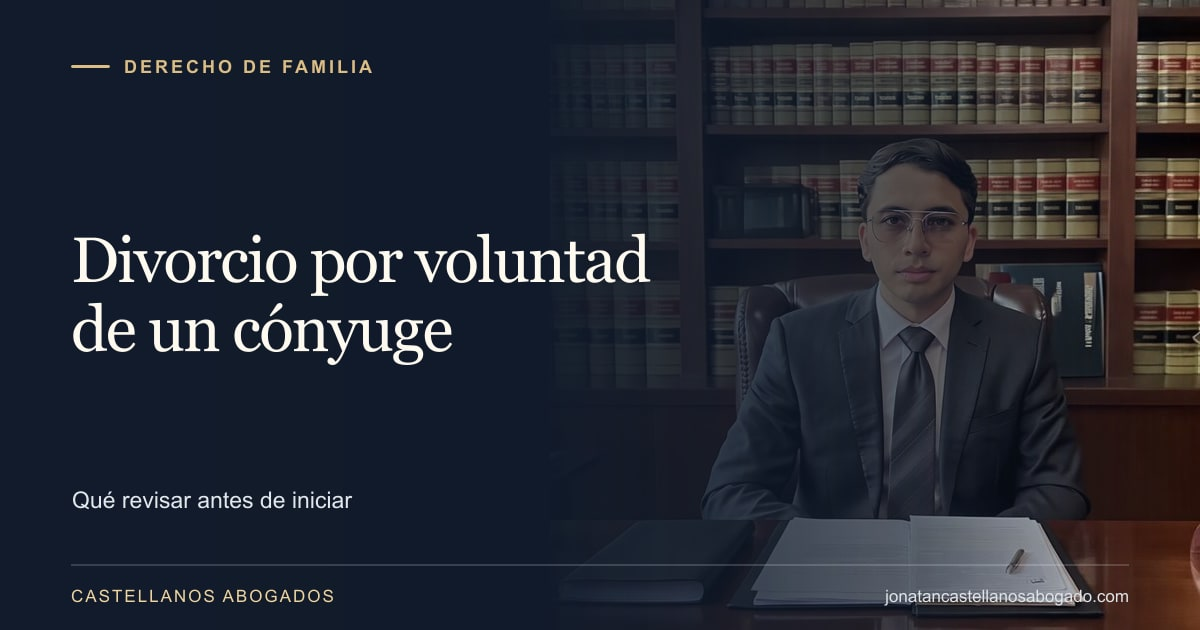
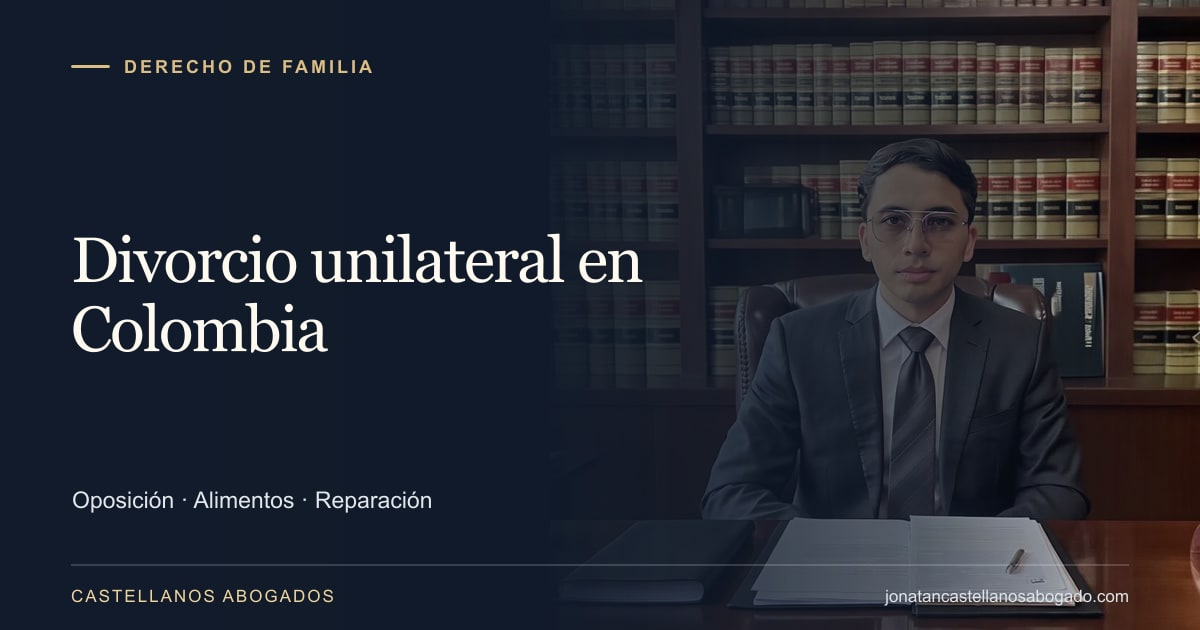
content: sustituye guías genéricas por análisis jurídico de PARD y divorcio

Changed region(s): [[0.0617, 0.3619, 0.555, 0.573], [0.0617, 0.7841, 0.37, 0.8143]]

diff --git a/app/blog/[slug]/page.tsx b/app/blog/[slug]/page.tsx
@@ -5,71 +5,76 @@ import WhatsAppContactCard from '@/app/components/WhatsAppContactCard';
 import { articleWhatsAppCtas } from '@/lib/whatsappCtaContent';
 
 const articles: Record<string, { title: string; category: string; date: string; updatedAt?: string; content: string; relatedLinks?: Array<{ label: string; url: string }>; image?: string; imageAlt?: string; sources?: Array<{ label: string; url: string }> }> = {
-  "preparar-primera-consulta-abogado": {
-    title: "Primera consulta con un abogado: documentos y preguntas para aprovecharla",
-    category: "Orientación jurídica",
+  "pard-colombia-separacion-familiar-defensa": {
+    title: "PARD en Colombia: separación familiar, defensa y límites de las medidas de protección",
+    category: "Familia",
     date: "2026-11-04T19:05:00-05:00",
-    relatedLinks: [{"label": "Solicitar una evaluación jurídica", "url": "/contacto"}, {"label": "Ingresar al portal del cliente", "url": "/cliente/login"}, {"label": "Explorar los servicios de la firma", "url": "/servicios"}],
+    sources: [{"label": "Ley 1098 de 2006: artículos 22, 26, 50, 98 y 101", "url": "https://www.funcionpublica.gov.co/eva/gestornormativo/norma.php?i=22106"}, {"label": "Ley 1878 de 2018: reformas de los artículos 52, 99, 100 y 103", "url": "https://apps.procuraduria.gov.co/guia/gd_1952/docs/l1878018.htm"}, {"label": "Ley 2126 de 2021, artículo 5: competencia", "url": "https://www.funcionpublica.gov.co/eva/gestornormativo/norma.php?i=168066"}, {"label": "Ley 1955 de 2019, artículo 208: seguimiento y ampliación excepcional", "url": "https://www.cancilleria.gov.co/normograma/compilacion/docs/ley_1955_2019.htm"}],
+    relatedLinks: [{"label": "Representación en derecho de familia", "url": "/servicios/familia"}],
     content: `
-Una consulta resulta más útil cuando permite entender qué ocurrió, qué documentos existen y qué decisión necesita tomar. No hace falta llegar con un expediente perfecto: sí conviene tener una explicación ordenada y señalar cualquier citación o fecha próxima.
+La apertura de un Proceso Administrativo de Restablecimiento de Derechos puede afectar con quién vive un niño y cómo mantiene sus vínculos familiares. El PARD busca restablecer sus derechos; sus decisiones deben respetar las garantías y los límites fijados en la legislación colombiana.
 
-**Escriba una cronología breve**
+**La separación familiar debe tener un fundamento concreto**
 
-Prepare una página con las fechas principales, las personas o entidades involucradas y los hechos que puede respaldar. Distinga lo que presenció de lo que otras personas le contaron. Si no recuerda una fecha, indíquelo; completar vacíos con suposiciones dificulta la revisión.
+El artículo 22 de la Ley 1098 de 2006 protege el derecho a tener una familia y a no ser separado de ella. La separación procede cuando la familia no garantiza las condiciones para el ejercicio de los derechos. La condición económica, por sí misma, no autoriza separar al niño.
 
-**Reúna documentos completos y legibles**
+Esto exige distinguir una vulneración de derechos de una carencia económica que requiere respuesta estatal. La protección del niño y la preservación de sus vínculos deben examinarse en las circunstancias acreditadas del caso.
 
-Según el asunto, pueden ser útiles contratos, citaciones, decisiones judiciales, comunicaciones de entidades, comprobantes o acuerdos. Conserve los originales y organice copias por fecha. Si comparte un correo, incluya sus anexos; si lleva una decisión, procure tener todas sus páginas.
+**Una medida de protección debe estar motivada**
 
-**Señale primero las fechas próximas**
+El artículo 101 exige al fallo examinar críticamente las pruebas, exponer sus fundamentos jurídicos y justificar la medida, su cumplimiento y su evaluación. El artículo 26 reconoce el debido proceso y el derecho del niño a ser escuchado y a que su opinión se tenga en cuenta.
 
-Si recibió una notificación o tiene una audiencia, muestre el documento e indique cuándo y por qué medio lo recibió. No calcule un plazo únicamente a partir de una publicación en internet. Pida al abogado que revise la actuación concreta antes de decidir qué hacer.
+**¿Quién tiene competencia?**
 
-**Defina qué quiere resolver**
+Según el artículo 5 de la Ley 2126 de 2021, cuando concurren ambas autoridades, las comisarías conocen las amenazas o vulneraciones en el contexto de violencia familiar, con las excepciones legales. Las defensorías conocen las demás y las formas de violencia sexual. La concurrencia de violencia contra adultos del mismo núcleo exige aplicar la regla especial del numeral 4. También debe verificarse la competencia subsidiaria: no todos los PARD corresponden a una comisaría.
 
-No es lo mismo pedir orientación sobre un contrato que solicitar una negociación o encargar una representación judicial. Explique su objetivo y sus principales preocupaciones. También conviene decir qué actuaciones ya intentó y cuáles respuestas recibió.
+**La defensa incluye controvertir las pruebas**
 
-**Pregunte por alcance, honorarios y seguimiento**
+El artículo 100, reformado por la Ley 1878 de 2018, establece cinco días de traslado del auto de apertura para pronunciarse y aportar pruebas. Las practicadas antes de la audiencia tienen un traslado de cinco días. El fallo admite reposición; quienes asisten deben interponerla verbalmente en audiencia. La remisión para homologación judicial procede en las condiciones legales de inconformidad dentro de los quince días siguientes a la ejecutoria.
 
-Antes de contratar, aclare qué incluye el servicio, qué gastos se cobran aparte, quién atenderá su asunto y cómo recibirá las novedades. Pregunte qué información debe aportar y qué puede esperar de la siguiente etapa. Una evaluación inicial permite definir una ruta; los resultados dependen de las circunstancias y del trámite.
+**Los seis meses no comienzan necesariamente con el auto de apertura**
 
-**Cuando la firma habilite su portal de cliente**
+La definición inicial de la situación jurídica debe producirse dentro de seis meses desde el conocimiento de la presunta amenaza o vulneración. Vencido el término para fallar o resolver la reposición sin decisión, la autoridad pierde competencia y debe remitir el expediente al juez de familia. Esa consecuencia no equivale a un reintegro automático.
 
-Solicite las instrucciones de acceso y confirme qué documentos, novedades y citas estarán disponibles. Las actualizaciones corresponden a la información registrada por el despacho; pregunte cuál será el canal para asuntos urgentes y cómo comunicar un cambio de teléfono o correo.
+**Las medidas pueden modificarse**
 
-En Castellanos Abogados puede iniciar el contacto indicando su ciudad, el tema y si existe una fecha próxima. Primero coordinamos la revisión y los documentos necesarios; comparta información sensible por el canal que acordemos para su atención.
+El artículo 103 permite cambiarlas cuando se demuestra la alteración de las circunstancias que las originaron. Antes de la audiencia de pruebas y fallo, el cambio exige auto motivado notificado por estado, sin recurso. Después del fallo, la modificación se adopta en audiencia y queda sometida a sus mecanismos de oposición.
+
+**Seguimiento y plazo inicial son etapas distintas**
+
+El artículo 208 de la Ley 1955 de 2019 contempla dieciocho meses para el proceso con seguimiento y un mecanismo excepcional de ampliación que requiere aval del ICBF y resolución motivada. Esa excepción no permite presentar el plazo inicial de seis meses como libremente prorrogable.
+
+La intervención del abogado comprende examinar competencia, notificaciones, prueba, motivación y términos; sustentar las solicitudes de modificación y ejercer los mecanismos de defensa que procedan, con atención al interés superior del niño.
 `,
   },
   "divorcio-unilateral-colombia": {
-    title: "Divorcio por voluntad de uno de los cónyuges: qué revisar antes de iniciar",
+    title: "Divorcio unilateral en Colombia: oposición, alimentos y reparación",
     category: "Familia",
     date: "2026-11-04T19:00:00-05:00",
-    sources: [{"label": "Ley 2442 de 2024: divorcio por voluntad de cualquiera de los cónyuges", "url": "https://www.funcionpublica.gov.co/eva/gestornormativo/norma.php?i=257036"}],
-    relatedLinks: [{"label": "Guía general de divorcio en Colombia", "url": "/blog/divorcio-colombia"}, {"label": "Asesoría en derecho de familia", "url": "/servicios/familia"}],
+    sources: [{"label": "Ley 2442 de 2024, artículos 2 a 7", "url": "https://www.funcionpublica.gov.co/eva/gestornormativo/norma.php?i=257036"}, {"label": "Decreto 1069 de 2015: artículos 2.2.6.8.2 y 2.2.6.8.3", "url": "https://www.cancilleria.gov.co/sites/default/files/Normograma/docs/decreto_1069_2015_pr032.htm"}],
+    relatedLinks: [{"label": "Divorcio en Colombia: vías y efectos", "url": "/blog/divorcio-colombia"}, {"label": "Representación en derecho de familia", "url": "/servicios/familia"}],
     content: `
-¿Quiere divorciarse y su pareja no está de acuerdo? Esa diferencia debe explicarse desde la primera consulta, junto con los asuntos sobre hijos, vivienda, ingresos y patrimonio que necesitan una decisión.
+La Ley 2442 de 2024 incorporó al artículo 154 del Código Civil la voluntad de uno de los cónyuges como causal de divorcio. El desacuerdo del otro no impide invocarla, pero los efectos familiares y económicos requieren una decisión jurídica.
 
-**La voluntad de uno de los cónyuges es una causal de divorcio**
+**La oposición se concentra en los efectos propuestos**
 
-La Ley 2442 de 2024 agregó esta causal al artículo 154 del Código Civil. La solicitud judicial debe acompañarse de una propuesta para regular los efectos del divorcio. La decisión de terminar el vínculo no resuelve automáticamente las obligaciones familiares ni el patrimonio.
+La demanda debe acompañarse de una propuesta sobre los efectos del divorcio. El demandado puede controvertirla mediante una distinta. Si hay hijos, deben abordarse alimentos, custodia, cuidado y visitas. El juez revisa de oficio las obligaciones alimentarias y las situaciones de riesgo previstas en la ley.
 
-**Prepare una fotografía clara de su situación**
+**El divorcio puede dejar obligaciones entre excónyuges**
 
-Anote cuándo se casaron, dónde viven actualmente, si siguen conviviendo y qué conversaciones han tenido sobre la separación. Diferencie aquello que ambos aceptan de los puntos en desacuerdo. Esa información permite enfocar la consulta sin convertirla en una reconstrucción desordenada de años de convivencia.
+La reforma reconoce alimentos a quien, por el divorcio bajo esta causal, carezca de medios de subsistencia, mientras no contraiga nuevo matrimonio o unión marital de hecho. Terminar el vínculo no autoriza asumir que desaparecen todas las obligaciones económicas.
 
-**Organice los documentos disponibles**
+**Violencia y reparación tienen consecuencias propias**
 
-Para la revisión inicial, reúna los registros civiles que tenga, acuerdos previos, información sobre ingresos y gastos, y soportes de bienes y deudas. Señale qué documentos faltan y quién podría tenerlos. Esta es una lista de preparación de la consulta; el abogado determinará los requisitos del trámite concreto.
+La causal de ultrajes, trato cruel y maltratamientos, debidamente probada, da lugar a reparación integral, incluidas medidas económicas y simbólicas. Elegir la vía del divorcio exige analizar también los derechos de la víctima y las pretensiones correspondientes.
 
-**Ponga las necesidades de los hijos sobre la mesa**
+**La notaría requiere acuerdo**
 
-Prepare un presupuesto realista de alimentación, vivienda, salud, educación y transporte. Describa cómo se distribuyen hoy el cuidado y los gastos. Lleve las preguntas sobre visitas, rutinas y comunicaciones que le preocupan, sin involucrar a los hijos en la negociación entre adultos.
+El artículo 7 permite continuar ante notario cuando los cónyuges acuerdan tramitar el divorcio bajo la causal de mutuo consentimiento. La solicitud unilateral no convierte por sí sola el asunto en un trámite notarial.
 
-**Haga preguntas concretas sobre el servicio**
+En el divorcio notarial con hijos menores, el Decreto 1069 de 2015 regula la intervención del defensor de familia respecto del acuerdo sobre alimentos, custodia y visitas. La existencia de hijos menores no obliga por sí sola a tramitar el divorcio judicialmente.
 
-Solicite que le expliquen el alcance de la representación, los honorarios, los gastos adicionales y la forma de seguimiento. Pregunte cuáles decisiones necesitan una respuesta pronta y cuáles dependen de documentos o actuaciones posteriores. Conserve por escrito los compromisos acordados.
-
-En Castellanos Abogados revisamos su situación en Pereira, Manizales o mediante atención virtual. Cuéntenos si existe acuerdo, si hay hijos y si comparten bienes o deudas para preparar la evaluación de su caso.
+La representación jurídica exige definir las pretensiones, sustentar los efectos solicitados y atender los intereses familiares y patrimoniales comprometidos. La firma acompaña ese análisis y la actuación ante la autoridad competente.
 `,
   },
   'quedarse-mas-tiempo-colombia': {
@@ -1019,8 +1024,8 @@ export async function generateStaticParams() {
 }
 
 const ARTICLE_DESCRIPTIONS: Record<string, string> = {
-  'divorcio-unilateral-colombia': 'Divorcio por voluntad de un cónyuge en Colombia: qué permite la Ley 2442 de 2024 y cómo preparar documentos y preguntas para su consulta.',
-  'preparar-primera-consulta-abogado': 'Qué documentos y preguntas preparar antes de consultar a un abogado en Pereira o Manizales. Honorarios, alcance del servicio y seguimiento del caso.',
+  'divorcio-unilateral-colombia': 'Divorcio unilateral en Colombia: alcance de la oposición, obligaciones alimentarias, reparación por violencia y acceso al trámite notarial.',
+  'pard-colombia-separacion-familiar-defensa': 'PARD en Colombia: separación familiar, contradicción de pruebas, modificación de medidas y pérdida de competencia según la legislación colombiana.',
   'quedarse-mas-tiempo-colombia': 'Qué revisar antes de extender la permanencia en Colombia: permiso vigente, propósito de la estadía, visa, cambios de circunstancias y documentos extranjeros.',
   'circular-externa-007-2026-alivios-financieros': 'Circular Externa 007 de 2026: alivios para afectados por el terremoto del Eje Cafetero del 10 de agosto. Refinanciación, intereses y reportes.',
   'cuando-interponer-una-tutela':        'Cuándo procede una acción de tutela en Colombia, qué documentos conviene reunir y cómo presentarla. Asesoría para tutelas en Pereira y Manizales.',

diff --git a/app/components/BlogClient.tsx b/app/components/BlogClient.tsx
@@ -5,8 +5,8 @@ import BlogList from '@/app/components/BlogList';
 import { useLanguage } from '@/contexts/LanguageContext';
 
 const articles = [
-  {"slug": "divorcio-unilateral-colombia", "title": "Divorcio por voluntad de uno de los cónyuges: qué revisar antes de iniciar", "summary": "Qué preparar antes de iniciar: documentos, preguntas y decisiones que conviene revisar con su abogado.", "date": "2026-11-04T19:00:00-05:00", "category": "Familia"},
-  {"slug": "preparar-primera-consulta-abogado", "title": "Primera consulta con un abogado: documentos y preguntas para aprovecharla", "summary": "Organice los hechos, reúna los soportes y aclare alcance, honorarios y seguimiento antes de contratar.", "date": "2026-11-04T19:05:00-05:00", "category": "Orientación jurídica"},
+  {"slug": "divorcio-unilateral-colombia", "title": "Divorcio unilateral en Colombia: oposición, alimentos y reparación", "summary": "Qué puede discutir el otro cónyuge y qué sucede con los alimentos, las reparaciones y el trámite ante notario.", "date": "2026-11-04T19:00:00-05:00", "category": "Familia"},
+  {"slug": "pard-colombia-separacion-familiar-defensa", "title": "PARD en Colombia: separación familiar, defensa y límites de las medidas de protección", "summary": "Separación familiar, garantías probatorias, modificación de medidas y vencimiento de términos: los límites legales del PARD.", "date": "2026-11-04T19:05:00-05:00", "category": "Familia"},
 
   { slug: 'quedarse-mas-tiempo-colombia', title: '¿Quiere quedarse más tiempo en Colombia? Permiso, visa y cambios que debe revisar', summary: 'Antes de que venza su permanencia, hay decisiones que pueden cambiar por completo la ruta migratoria. Conozca qué revisar y cuándo pedir orientación.', date: '2026-10-03T09:00:00-05:00', category: 'Derecho migratorio' },
   { slug: 'circular-externa-007-2026-alivios-financieros', title: 'Circular Externa 007 de 2026: alivios tras el terremoto del Eje Cafetero', summary: 'El sismo del 10 de agosto de 2026 afectó ingresos y capacidad de pago en Caldas, Risaralda, Quindío y otras regiones. Conozca la refinanciación, los intereses y los reportes.', date: '2026-09-17T12:00:00-05:00', category: 'Derecho Financiero' },

diff --git a/lib/whatsappCtaContent.ts b/lib/whatsappCtaContent.ts
@@ -12,15 +12,15 @@ export type WhatsAppCtaContent = {
 export const articleWhatsAppCtas: Record<string, WhatsAppCtaContent> = {
   'divorcio-unilateral-colombia': {
     area: 'Derecho de familia', eyebrow: 'Orientación sobre divorcio',
-    headline: '¿Quiere revisar cómo iniciar su divorcio?',
-    description: 'Cuéntenos si existe acuerdo, si hay hijos y si comparten bienes o deudas. Revisamos la ruta y los documentos.',
+    headline: 'Representación en divorcio y sus efectos económicos',
+    description: 'Asumimos el estudio de las pretensiones, las obligaciones alimentarias y los efectos familiares y patrimoniales del divorcio.',
     message: 'Hola, leí el artículo sobre divorcio por voluntad de uno de los cónyuges y quisiera consultar mi situación.',
   },
-  'preparar-primera-consulta-abogado': {
-    area: 'Evaluación jurídica', eyebrow: 'Prepare su primera consulta',
-    headline: '¿Tiene una situación que necesita revisar?',
-    description: 'Indique su ciudad, el tema y si recibió una citación o tiene una fecha próxima. Coordinamos la revisión.',
-    message: 'Hola, leí la guía para preparar la primera consulta y quisiera coordinar una evaluación jurídica.',
+  'pard-colombia-separacion-familiar-defensa': {
+    area: 'Proceso Administrativo de Restablecimiento de Derechos', eyebrow: 'Representación en derecho de familia',
+    headline: 'Defensa jurídica en procesos de restablecimiento de derechos',
+    description: 'Estudiamos la legalidad de las actuaciones, las pruebas y las medidas adoptadas para ejercer la representación que corresponda.',
+    message: 'Hola, leí el artículo sobre el PARD y necesito representación jurídica en un proceso de restablecimiento de derechos.',
   },
   'quedarse-mas-tiempo-colombia': {
     area: 'Derecho migratorio en Colombia', eyebrow: 'Orientación migratoria nacional',

diff --git a/app/sitemap.ts b/app/sitemap.ts
@@ -5,7 +5,7 @@ const BASE = 'https://jonatancastellanosabogado.com';
 
 const BLOG_SLUGS = [
   'divorcio-unilateral-colombia',
-  'preparar-primera-consulta-abogado',
+  'pard-colombia-separacion-familiar-defensa',
   'quedarse-mas-tiempo-colombia',
   'circular-externa-007-2026-alivios-financieros',
   'decreto-1368-2026-porte-armas',
@@ -33,7 +33,7 @@ const BLOG_SLUGS = [
 
 const BLOG_DATES: Record<string, string> = {
   'divorcio-unilateral-colombia': '2026-11-04',
-  'preparar-primera-consulta-abogado': '2026-11-04',
+  'pard-colombia-separacion-familiar-defensa': '2026-11-04',
   'quedarse-mas-tiempo-colombia': '2026-10-03',
   'circular-externa-007-2026-alivios-financieros': '2026-09-17',
   'decreto-1368-2026-porte-armas': '2026-09-09',

diff --git a/lib/i18n/dictionaries/fr.ts b/lib/i18n/dictionaries/fr.ts
@@ -309,7 +309,6 @@ export const fr = {
       portalFeature2: "Mises à jour du processus sans avoir à appeler",
       portalFeature3: "Planifiez et gérez vos rendez-vous facilement",
       portalLink: "Découvrir le portail",
-      portalGuide: "Pas encore client ? Préparez votre première consultation",
       googleReviews: {
         badge: "Avis Google",
         title: "Une confiance appuyée par les clients",

diff --git a/lib/i18n/dictionaries/it.ts b/lib/i18n/dictionaries/it.ts
@@ -309,7 +309,6 @@ export const it = {
       portalFeature2: "Aggiornamenti del processo senza dover chiamare",
       portalFeature3: "Pianifica e gestisci i tuoi appuntamenti facilmente",
       portalLink: "Scopri il portale",
-      portalGuide: "Non sei ancora cliente? Prepara la tua prima consulenza",
       googleReviews: {
         badge: "Recensioni Google",
         title: "Fiducia sostenuta dai clienti",

diff --git a/lib/i18n/dictionaries/es.ts b/lib/i18n/dictionaries/es.ts
@@ -334,7 +334,6 @@ export const es = {
       portalFeature2: "Actualizaciones del proceso sin tener que llamar",
       portalFeature3: "Agenda y gestiona tus citas fácilmente",
       portalLink: "Ingresar al portal",
-      portalGuide: "¿Aún no eres cliente? Prepara tu primera consulta",
       googleReviews: {
         badge: "Opiniones de Google",
         title: "Confianza respaldada por clientes",

diff --git a/lib/i18n/dictionaries/en.ts b/lib/i18n/dictionaries/en.ts
@@ -309,7 +309,6 @@ export const en = {
       portalFeature2: "Process updates without needing to call",
       portalFeature3: "Schedule and manage your appointments easily",
       portalLink: "Learn about the portal",
-      portalGuide: "Not a client yet? Prepare for your first consultation",
       googleReviews: {
         badge: "Google reviews",
         title: "Trust backed by clients",

diff --git a/app/components/HomeClient.tsx b/app/components/HomeClient.tsx
@@ -133,9 +133,6 @@ export default function HomeClient() {
               >
                 {p.portalLink}
               </Link>
-              <Link href="/blog/preparar-primera-consulta-abogado" className="inline-flex mt-4 text-sm text-slate-200 underline underline-offset-4">
-                {p.portalGuide}
-              </Link>
             </div>
 
             <div className="relative">

diff --git a/pard-colombia-separacion-familiar-defensa.md b/pard-colombia-separacion-familiar-defensa.md
@@ -1,0 +1,46 @@
+# PARD en Colombia: separación familiar, defensa y límites de las medidas de protección
+
+Estado: borrador editorial. Basado exclusivamente en normativa colombiana.
+
+
+La apertura de un Proceso Administrativo de Restablecimiento de Derechos puede afectar con quién vive un niño y cómo mantiene sus vínculos familiares. El PARD busca restablecer sus derechos; sus decisiones deben respetar las garantías y los límites fijados en la legislación colombiana.
+
+**La separación familiar debe tener un fundamento concreto**
+
+El artículo 22 de la Ley 1098 de 2006 protege el derecho a tener una familia y a no ser separado de ella. La separación procede cuando la familia no garantiza las condiciones para el ejercicio de los derechos. La condición económica, por sí misma, no autoriza separar al niño.
+
+Esto exige distinguir una vulneración de derechos de una carencia económica que requiere respuesta estatal. La protección del niño y la preservación de sus vínculos deben examinarse en las circunstancias acreditadas del caso.
+
+**Una medida de protección debe estar motivada**
+
+El artículo 101 exige al fallo examinar críticamente las pruebas, exponer sus fundamentos jurídicos y justificar la medida, su cumplimiento y su evaluación. El artículo 26 reconoce el debido proceso y el derecho del niño a ser escuchado y a que su opinión se tenga en cuenta.
+
+**¿Quién tiene competencia?**
+
+Según el artículo 5 de la Ley 2126 de 2021, cuando concurren ambas autoridades, las comisarías conocen las amenazas o vulneraciones en el contexto de violencia familiar, con las excepciones legales. Las defensorías conocen las demás y las formas de violencia sexual. La concurrencia de violencia contra adultos del mismo núcleo exige aplicar la regla especial del numeral 4. También debe verificarse la competencia subsidiaria: no todos los PARD corresponden a una comisaría.
+
+**La defensa incluye controvertir las pruebas**
+
+El artículo 100, reformado por la Ley 1878 de 2018, establece cinco días de traslado del auto de apertura para pronunciarse y aportar pruebas. Las practicadas antes de la audiencia tienen un traslado de cinco días. El fallo admite reposición; quienes asisten deben interponerla verbalmente en audiencia. La remisión para homologación judicial procede en las condiciones legales de inconformidad dentro de los quince días siguientes a la ejecutoria.
+
+**Los seis meses no comienzan necesariamente con el auto de apertura**
+
+La definición inicial de la situación jurídica debe producirse dentro de seis meses desde el conocimiento de la presunta amenaza o vulneración. Vencido el término para fallar o resolver la reposición sin decisión, la autoridad pierde competencia y debe remitir el expediente al juez de familia. Esa consecuencia no equivale a un reintegro automático.
+
+**Las medidas pueden modificarse**
+
+El artículo 103 permite cambiarlas cuando se demuestra la alteración de las circunstancias que las originaron. Antes de la audiencia de pruebas y fallo, el cambio exige auto motivado notificado por estado, sin recurso. Después del fallo, la modificación se adopta en audiencia y queda sometida a sus mecanismos de oposición.
+
+**Seguimiento y plazo inicial son etapas distintas**
+
+El artículo 208 de la Ley 1955 de 2019 contempla dieciocho meses para el proceso con seguimiento y un mecanismo excepcional de ampliación que requiere aval del ICBF y resolución motivada. Esa excepción no permite presentar el plazo inicial de seis meses como libremente prorrogable.
+
+La intervención del abogado comprende examinar competencia, notificaciones, prueba, motivación y términos; sustentar las solicitudes de modificación y ejercer los mecanismos de defensa que procedan, con atención al interés superior del niño.
+
+
+## Fuentes oficiales
+
+- [Ley 1098 de 2006: artículos 22, 26, 50, 98 y 101](https://www.funcionpublica.gov.co/eva/gestornormativo/norma.php?i=22106)
+- [Ley 1878 de 2018: reformas de los artículos 52, 99, 100 y 103](https://apps.procuraduria.gov.co/guia/gd_1952/docs/l1878018.htm)
+- [Ley 2126 de 2021, artículo 5: competencia](https://www.funcionpublica.gov.co/eva/gestornormativo/norma.php?i=168066)
+- [Ley 1955 de 2019, artículo 208: seguimiento y ampliación excepcional](https://www.cancilleria.gov.co/normograma/compilacion/docs/ley_1955_2019.htm)

diff --git a/divorcio-unilateral-colombia.md b/divorcio-unilateral-colombia.md
@@ -1,0 +1,32 @@
+# Divorcio unilateral en Colombia: oposición, alimentos y reparación
+
+Estado: borrador editorial. Basado exclusivamente en normativa colombiana.
+
+
+La Ley 2442 de 2024 incorporó al artículo 154 del Código Civil la voluntad de uno de los cónyuges como causal de divorcio. El desacuerdo del otro no impide invocarla, pero los efectos familiares y económicos requieren una decisión jurídica.
+
+**La oposición se concentra en los efectos propuestos**
+
+La demanda debe acompañarse de una propuesta sobre los efectos del divorcio. El demandado puede controvertirla mediante una distinta. Si hay hijos, deben abordarse alimentos, custodia, cuidado y visitas. El juez revisa de oficio las obligaciones alimentarias y las situaciones de riesgo previstas en la ley.
+
+**El divorcio puede dejar obligaciones entre excónyuges**
+
+La reforma reconoce alimentos a quien, por el divorcio bajo esta causal, carezca de medios de subsistencia, mientras no contraiga nuevo matrimonio o unión marital de hecho. Terminar el vínculo no autoriza asumir que desaparecen todas las obligaciones económicas.
+
+**Violencia y reparación tienen consecuencias propias**
+
+La causal de ultrajes, trato cruel y maltratamientos, debidamente probada, da lugar a reparación integral, incluidas medidas económicas y simbólicas. Elegir la vía del divorcio exige analizar también los derechos de la víctima y las pretensiones correspondientes.
+
+**La notaría requiere acuerdo**
+
+El artículo 7 permite continuar ante notario cuando los cónyuges acuerdan tramitar el divorcio bajo la causal de mutuo consentimiento. La solicitud unilateral no convierte por sí sola el asunto en un trámite notarial.
+
+En el divorcio notarial con hijos menores, el Decreto 1069 de 2015 regula la intervención del defensor de familia respecto del acuerdo sobre alimentos, custodia y visitas. La existencia de hijos menores no obliga por sí sola a tramitar el divorcio judicialmente.
+
+La representación jurídica exige definir las pretensiones, sustentar los efectos solicitados y atender los intereses familiares y patrimoniales comprometidos. La firma acompaña ese análisis y la actuación ante la autoridad competente.
+
+
+## Fuentes oficiales
+
+- [Ley 2442 de 2024, artículos 2 a 7](https://www.funcionpublica.gov.co/eva/gestornormativo/norma.php?i=257036)
+- [Decreto 1069 de 2015: artículos 2.2.6.8.2 y 2.2.6.8.3](https://www.cancilleria.gov.co/sites/default/files/Normograma/docs/decreto_1069_2015_pr032.htm)

diff --git a/EDITORIAL_REVIEW.md b/EDITORIAL_REVIEW.md
@@ -7,11 +7,11 @@ El artículo más reciente del blog en vivo es del 3 de octubre de 2026. La resp
 El correo de la captura es una propuesta comercial. La portada anuncia documentos, novedades y citas en un portal. No se comprobó su exclusividad frente a otros despachos, el funcionamiento de una cuenta privada ni un incremento de consultas atribuible al portal. No se validó la identidad del remitente ni se respondió al correo.
 
 Cambios preparados:
-- Dos entradas nuevas: divorcio por voluntad de un cónyuge y preparación de la primera consulta.
+- Dos entradas nuevas revisadas: PARD (separación familiar, defensa, medidas y términos) y divorcio unilateral (oposición, alimentos y reparación).
 - Corrección de tres artículos: responsabilidad administrativa de personas jurídicas, divorcio notarial con hijos menores y redenciones de pena.
 - Fuentes oficiales enlazadas, autor visible y fecha real de actualización separada de la publicación original.
 - Enlaces internos, contacto por WhatsApp, portadas para compartir y sitemap actualizado.
-- La sección del portal aclara que el despacho registra las novedades y ofrece un enlace de orientación a futuros clientes.
+- La sección del portal aclara que el despacho registra las novedades y conserva su acceso directo. Se retiró la guía superficial de preparación de documentos.
 
 Oportunidades pendientes: medir consultas y citas efectivas por página de entrada con datos de Analytics/Search Console; valorar una página pública que explique el portal con capturas anonimizadas de funciones verificadas. La página ya ordena el blog por fecha descendente. La cifra 0.0 observada por el lector web corresponde al estado inicial de una animación con valor objetivo 5.0; no se diagnosticó como una calificación real de cero ni se verificó el valor vigente de Google.
 
